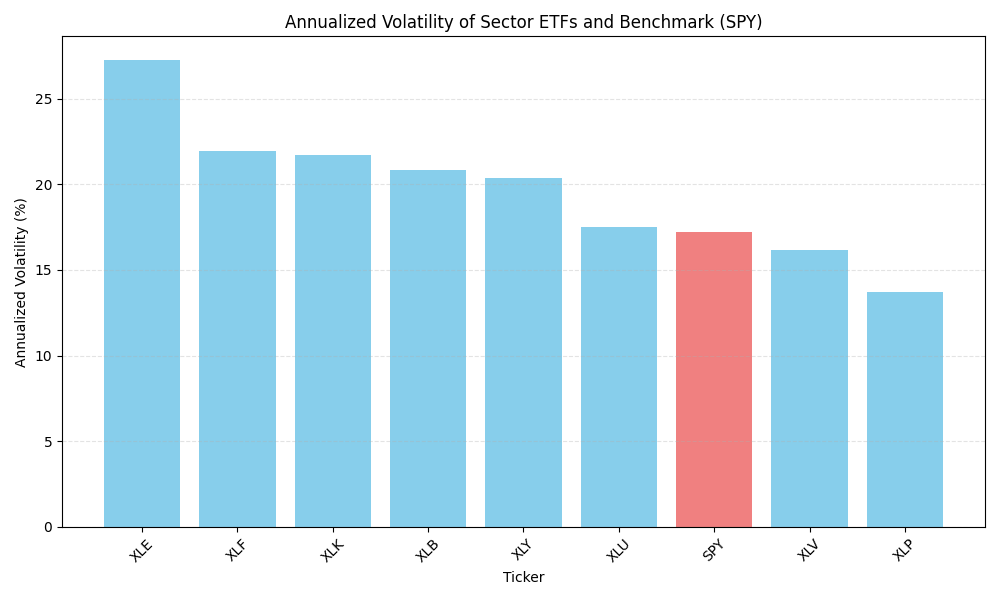
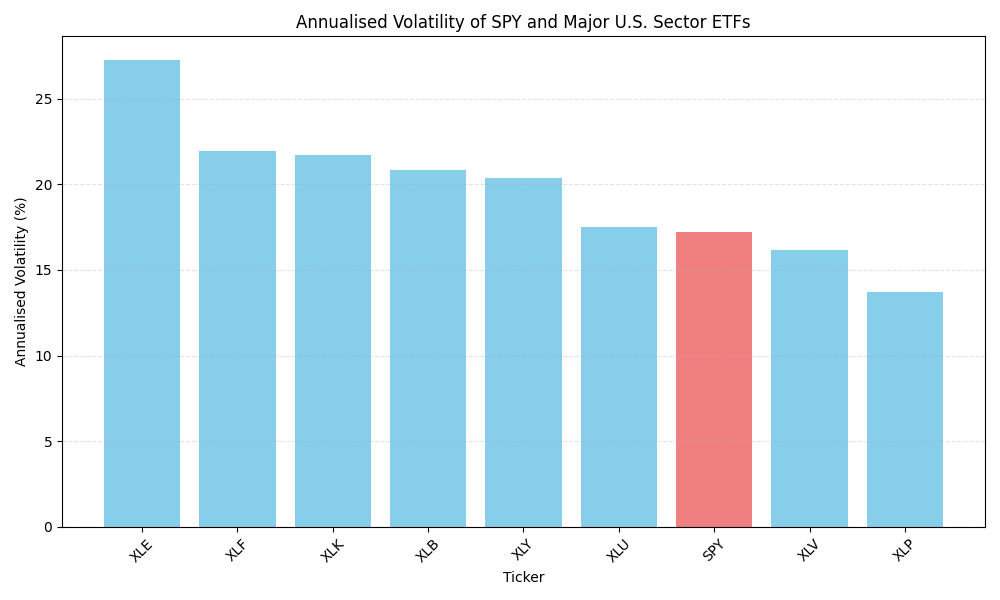
fix small spelling issues

Changed region(s): [[0.279, 0.0, 0.775, 0.06], [0.0, 0.33, 0.031, 0.6]]

diff --git a/docs/index.html b/docs/index.html
@@ -124,6 +124,7 @@ ul.task-list li input[type="checkbox"] {
 </tr>
 </tbody>
 </table>
+<p>Each ticker is the market symbol for an ETF. SPY is included as the benchmark because it tracks the broader U.S. stock market, while the remaining tickers represent major sector ETFs from the same SPDR family, allowing for a more consistent comparison across sectors.</p>
 </section>
 <section id="workflow-and-methodology" class="level2">
 <h2 class="anchored" data-anchor-id="workflow-and-methodology">Workflow and Methodology</h2>
@@ -162,7 +163,7 @@ ul.task-list li input[type="checkbox"] {
 <p>To understand sector differences more fully, it is useful to compare return and volatility together.</p>
 <section id="summary-statistic-table" class="level4">
 <h4 class="anchored" data-anchor-id="summary-statistic-table">Summary Statistic Table</h4>
-<div id="1c10f187" class="cell" data-execution_count="1">
+<div id="222d56cf" class="cell" data-execution_count="1">
 <div class="cell-output cell-output-display" data-execution_count="1">
 <div>
 
@@ -268,12 +269,18 @@ ul.task-list li input[type="checkbox"] {
 </div>
 </div>
 <p>The summary statistics table shows obvious differences in return, measured here as mean daily return (%) and volatility, as standard deviation. Technology (XLK) has the highest mean daily return at 0.078%, and close second is Consumer Discretionary (XLY) at 0.065%. We identified this trend above as well when we looked at cumulative returns. At the same time, both sectors were relatively volatile, with XLK at 1.369 and XLY at 1.281. In simple terms, a standard deviation of 1.369 suggests that XLK’s daily return was typically about 1.4 percentage points away from its average daily return, indicating a much less stable return pattern. Energy (XLE) stands out the most as it has the worst mean daily return at 0.035%, combined with the highest volatility reported at 1.718 and also the worst single day loss at an impressive -20.141%. This makes Energy the weakest sector in terms of long-run growth and return to risk. By contrast, Consumer Staples (XLP) and Health Care (XLV) show much lower volatility, although this came with more modest average returns. This suggests that these sectors may have offered more stable, but less rewarding, investment profiles over the period.</p>
+</section>
+<section id="volatility-comparison" class="level4">
+<h4 class="anchored" data-anchor-id="volatility-comparison">Volatility Comparison</h4>
 <div class="quarto-figure quarto-figure-center">
 <figure class="figure">
-<p><img src="output/figures/return_volatility.png" class="img-fluid figure-img"></p>
-<figcaption>Mean daily return and volatility of SPY and major U.S. sector ETFs, 2010 to 2025.</figcaption>
+<p><img src="output/figures/volatility_comparison.png" class="img-fluid figure-img"></p>
+<figcaption>Volatility Comparison of SPY and Major U.S. Sector ETFs, 2010 to 2025.</figcaption>
 </figure>
 </div>
+<p>Annualised volatility shows how much a sector’s returns typically fluctuate over a year, so a higher value indicates a less stable return pattern. This graph makes the differences in risk even clearer. Energy (XLE) had the highest annualised volatility of more than 27%, which confirms that the ETF was much less stable than the others. Financials (XLF) and Technology (XLK) also had somewhat higher volatility, however this came with a stronger return. SPY, the project benchmark, had an annualised volatility of around 17%, which places it near the middle of the distribution. This suggests that the broader market offered a more balanced risk profile than the most aggressive sector ETFs, while still being less defensive than sectors such as Health Care (XLV) and Consumer Staples (XLP). XLV’s annualised volatility was 16.2, and XLP’s was 13.7. A likely reason why XLP and XLV recorded the lowest volatility is that both are commonly considered defensive sectors, with demand that is less sensitive to changes in the wider economic cycle; people will always need essential consumer goods and health-related services in any economic period. An interesting point to note is that XLV has the second-lowest annualised volatility and standard deviation, yet it finished 3 highest out of the ETFs in terms of cumulative return.<br>
+</p>
+<p>Next, we will examine how sectors moved relative to one another.</p>
 </section>
 </section>
 </section>

diff --git a/src/04_analysis.py b/src/04_analysis.py
@@ -264,7 +264,7 @@ vol_df = df.dropna(subset=["Daily Return (%)"])
 volatility_table = (
     vol_df.groupby("Ticker")["Daily Return (%)"]
     .std() * np.sqrt(252) # this calculates the standard deviation of daily returns for each Ticker and then annualizes it by multiplying by the square root of 252
-    ).round(3).sort_values(ascending=False).reset_index(name="Annualized Volatility (%)") 
+    ).round(3).sort_values(ascending=False).reset_index(name="Annualised Volatility (%)") 
 
 #save the volatility table to a csv file
 volatility_table.to_csv(OUTPUT_TABLE / "volatility_table.csv", index=False)
@@ -274,10 +274,10 @@ print("Saved volatility table.")
 # plot the volatility comparison as a bar chart
 plt.figure(figsize=(10, 6))
 colors = ["lightcoral" if Ticker == "SPY" else "skyblue" for Ticker in volatility_table["Ticker"]]
-plt.bar(volatility_table["Ticker"], volatility_table["Annualized Volatility (%)"], color=colors)
-plt.title("Annualized Volatility of Sector ETFs and Benchmark (SPY)") 
+plt.bar(volatility_table["Ticker"], volatility_table["Annualised Volatility (%)"], color=colors)
+plt.title("Annualised Volatility of SPY and Major U.S. Sector ETFs") 
 plt.xlabel("Ticker")
-plt.ylabel("Annualized Volatility (%)")
+plt.ylabel("Annualised Volatility (%)")
 plt.xticks(rotation=45)
 plt.grid(axis="y", linestyle="--", alpha=0.35)
 plt.tight_layout()
